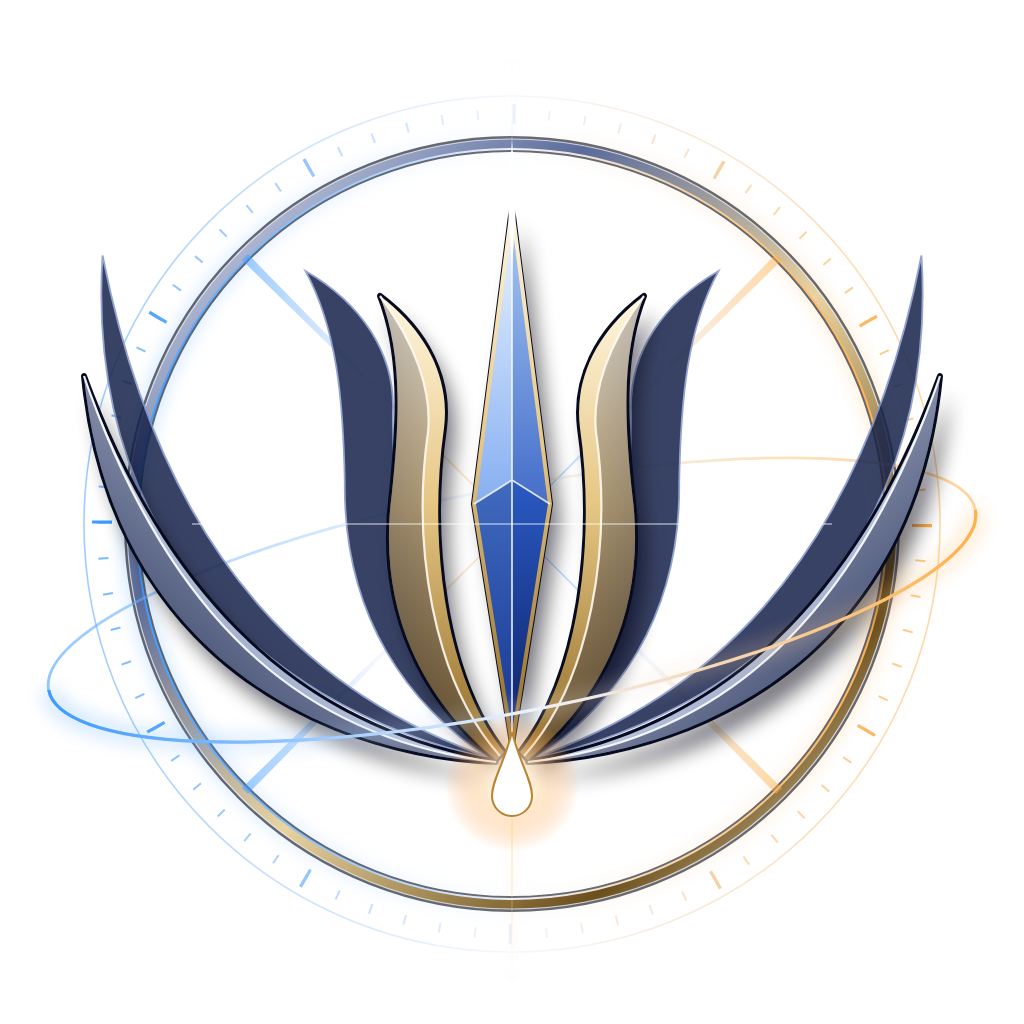
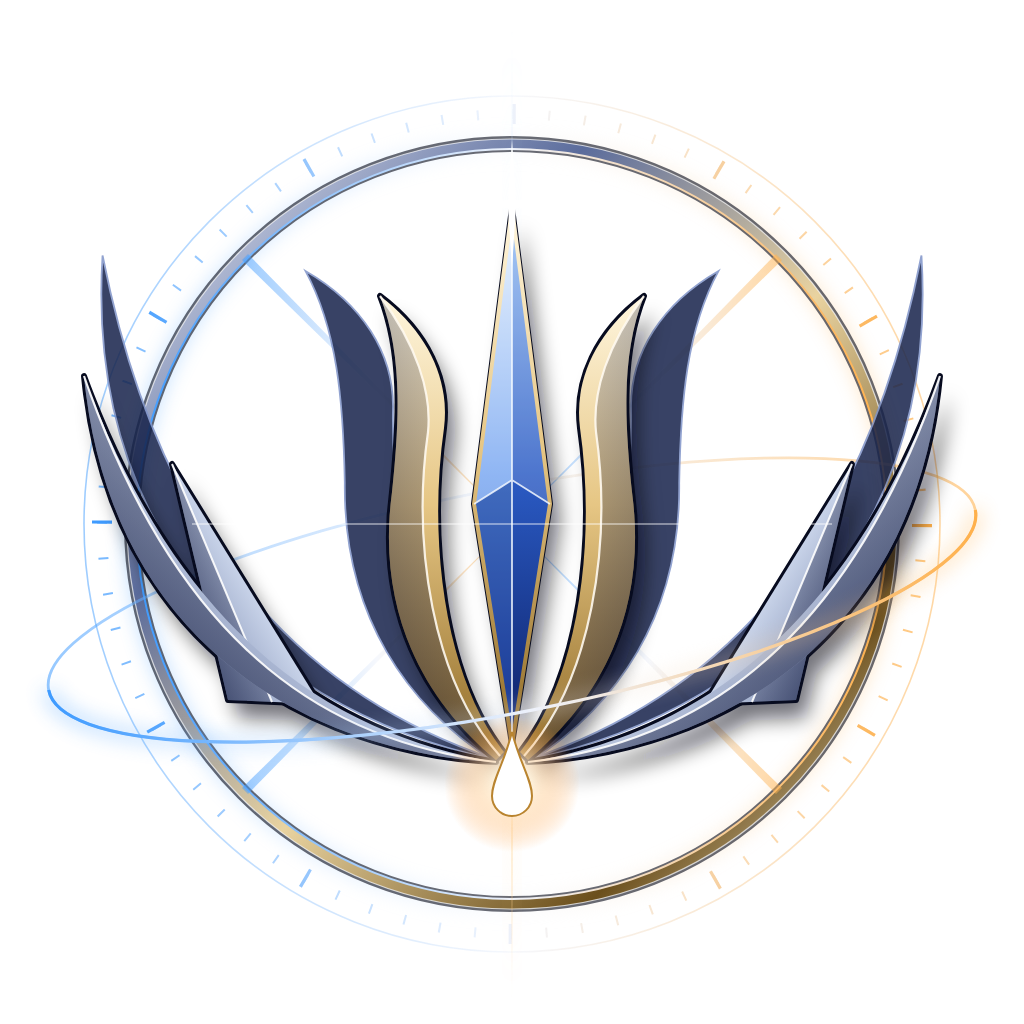
วาดพื้นหลังหน้าเข้าสู่ระบบด้วยโค้ดในแบบเดิม และคืนหนามปีกทรงเดิมให้ตรา
หน้าเข้าสู่ระบบกับหน้าสมัครสมาชิกยังใช้ภาพพื้นหลังที่มีโลโก้รุ่นเก่า พอเข้ามาเจอตราคนละแบบกับในแอป คงทำให้สงสัยว่าใช่เว็บเดียวกันไหม
เจ้าของโปรเจกต์ให้วาดด้วยโค้ดพร้อมตราใหม่ แต่ต้องจัดวางแบบเดิม ไม่อย่างนั้นแบรนด์จะไม่น่าเชื่อถือ
ตอนนี้พื้นหลังสร้างจาก scripts/hero/scene.html: เนบิวลาฟ้าฝั่งซ้าย ส้มทองฝั่งขวา ตราอยู่กลาง ชื่อ KING DIADEM ใต้ตรา
และแสงขอบฟ้ากับวงคลื่นด้านล่าง ตำแหน่งเดียวกับภาพเดิม ดาวสุ่มด้วยเลขตั้งต้นคงที่ สร้างใหม่กี่ครั้งก็ได้ภาพเดิมค่ะ

ตรารุ่นก่อนตัดหนามลูกศรบนปีกออก ทำให้รูปทรงห่างจากโลโก้เดิมของ KING DIADEM
รุ่นนี้ใส่หนามกลับมาในแบบเดียวกับชิ้นอื่น มีสันแบ่งหน้ารับแสงกับหน้าเงา แล้วสร้างไอคอนแอปทุกขนาดใหม่จากตรานี้

หน้าจดหมาย รายงาน ถามตอบ และหน้าออฟไลน์ ใช้โทนกลางเดียวกับหน้าอื่นแล้ว
ส่วนหน้าดูดาวกับหน้าฉุกเฉินตั้งใจไม่แตะ เพราะสีท้องฟ้าต้องไม่เพี้ยน และหน้าฉุกเฉินไม่ควรเสี่ยงค่ะ

Claude-Session: https://claude.ai/code/session_01C6X28FyDiBJ6mM9LUv8PCg

Changed region(s): [[0.6875, 0.4375, 0.8438, 0.7188], [0.1562, 0.4375, 0.3125, 0.7188]]

diff --git a/scripts/hero/scene.html b/scripts/hero/scene.html
@@ -1,0 +1,42 @@
+<!doctype html>
+<!-- ฉากพื้นหลังหน้าเข้าสู่ระบบ — วาดด้วยโค้ดทั้งหมด (ไม่มีภาพจาก AI) จัดวางแบบภาพเดิมของเจ้าของโปรเจกต์:
+     เนบิวลาฟ้าฝั่งซ้าย ส้มทองฝั่งขวา · ตราอยู่กลาง · ชื่อ KING DIADEM ใต้ตรา · แสงขอบฟ้ากับวงคลื่นด้านล่าง
+     ดาวสุ่มด้วยเลขตั้งต้นคงที่ → เรนเดอร์กี่ครั้งก็ได้ภาพเดิม · สร้างไฟล์ด้วย scripts/hero/build.js -->
+<html><head><meta charset="utf-8"><style>
+html,body{margin:0;background:#03040b;overflow:hidden}
+#s{position:relative;width:2560px;height:1440px;overflow:hidden;background:radial-gradient(70% 60% at 50% 42%,#0b1030,#04050f 62%,#020208)}
+.neb{position:absolute;inset:0}
+#crest{position:absolute;left:50%;top:42%;width:1080px;height:1080px;transform:translate(-50%,-50%)}
+#word{position:absolute;left:0;right:0;top:76%;text-align:center;font:500 150px/1 "Cinzel","Noto Serif Thai",Georgia,serif;letter-spacing:.14em;padding-left:.14em;
+  background:linear-gradient(180deg,#fff8e4 8%,#f0cd82 46%,#a8782a 92%);-webkit-background-clip:text;background-clip:text;color:transparent;filter:drop-shadow(0 6px 18px rgba(0,0,0,.8))}
+#word small{font-size:.78em;letter-spacing:.14em}
+#hz{position:absolute;left:0;right:0;bottom:0;height:300px}
+</style></head><body><div id="s">
+<svg class="neb" viewBox="0 0 2560 1440" xmlns="http://www.w3.org/2000/svg">
+  <defs>
+    <filter id="cl" x="-10%" y="-10%" width="120%" height="120%"><feTurbulence type="fractalNoise" baseFrequency=".0042 .007" numOctaves="5" seed="7"/><feColorMatrix values="0 0 0 0 1  0 0 0 0 1  0 0 0 0 1  2.6 0 0 0 -1.05"/><feGaussianBlur stdDeviation="6" result="n"/><feComposite in="SourceGraphic" in2="n" operator="in"/></filter>
+    <radialGradient id="b" cx="20%" cy="38%" r="52%"><stop offset="0" stop-color="#3f78ff" stop-opacity=".95"/><stop offset=".55" stop-color="#2238a8" stop-opacity=".5"/><stop offset="1" stop-color="#101a60" stop-opacity="0"/></radialGradient>
+    <radialGradient id="o" cx="82%" cy="34%" r="50%"><stop offset="0" stop-color="#ffa63c" stop-opacity=".95"/><stop offset=".55" stop-color="#b8521a" stop-opacity=".5"/><stop offset="1" stop-color="#4a1c08" stop-opacity="0"/></radialGradient>
+    <radialGradient id="v" cx="50%" cy="46%" r="70%"><stop offset=".5" stop-color="#000" stop-opacity="0"/><stop offset="1" stop-color="#000" stop-opacity=".78"/></radialGradient>
+    <radialGradient id="hg" cx="50%" cy="100%" r="60%"><stop offset="0" stop-color="#ffe6b8" stop-opacity=".9"/><stop offset=".25" stop-color="#ffb056" stop-opacity=".35"/><stop offset="1" stop-color="#ff9a3a" stop-opacity="0"/></radialGradient>
+  </defs>
+  <rect width="2560" height="1440" fill="url(#b)" filter="url(#cl)"/>
+  <rect width="2560" height="1440" fill="url(#o)" filter="url(#cl)"/>
+  <g id="stars"></g>
+  <rect width="2560" height="1440" fill="url(#v)"/>
+  <rect y="1040" width="2560" height="400" fill="url(#hg)"/>
+  <g fill="none" stroke="#ffd9a0" stroke-opacity=".4" stroke-width="1.6">
+    <ellipse cx="1280" cy="1330" rx="330" ry="26"/><ellipse cx="1280" cy="1330" rx="620" ry="52"/><ellipse cx="1280" cy="1330" rx="980" ry="84" stroke-opacity=".22"/>
+  </g>
+  <path d="M1280 560 L1283 1330 L1277 1330 Z" fill="#fff" opacity=".35"/>
+</svg>
+<img id="crest" src="../../static/brand/crest.svg" alt="">
+<div id="word">K<small>ING</small> D<small>IADEM</small></div>
+<script>
+// ดาว: ตัวสุ่มแบบกำหนดเลขตั้งต้น (mulberry32) — ภาพเดิมทุกครั้งที่เรนเดอร์
+(function(){var a=20261112;function r(){a|=0;a=a+0x6D2B79F5|0;var t=Math.imul(a^a>>>15,1|a);t=t+Math.imul(t^t>>>7,61|t)^t;return((t^t>>>14)>>>0)/4294967296}
+var g=document.getElementById('stars'),h='';for(var i=0;i<1500;i++){var x=r()*2560,y=r()*1300,m=Math.pow(r(),6),s=.5+m*3.2,warm=x>1280;
+h+='<circle cx="'+x.toFixed(1)+'" cy="'+y.toFixed(1)+'" r="'+s.toFixed(2)+'" fill="'+(warm?'#ffe2b8':'#d6e4ff')+'" opacity="'+(.35+r()*.6).toFixed(2)+'"/>';
+if(m>.9)h+='<path d="M'+x+' '+(y-s*7)+' L'+(x+s*.5)+' '+y+' L'+x+' '+(y+s*7)+' L'+(x-s*.5)+' '+y+' Z M'+(x-s*7)+' '+y+' L'+x+' '+(y+s*.5)+' L'+(x+s*7)+' '+y+' L'+x+' '+(y-s*.5)+' Z" fill="#fff" opacity=".8"/>';}
+g.innerHTML=h})();
+</script></div></body></html>

diff --git a/scripts/hero/build.js b/scripts/hero/build.js
@@ -1,0 +1,15 @@
+// สร้าง static/hero.jpg (2560×1440) และ static/hero_m.jpg (1280×720) จาก scripts/hero/scene.html
+// ใช้:  node scripts/hero/build.js   (ต้องมี Playwright + Chromium)
+const { chromium } = require('playwright'); const path = require('path');
+(async () => {
+  const b = await chromium.launch();
+  for (const [file, scale, q] of [['hero.jpg', 1, 82], ['hero_m.jpg', .5, 80]]) {
+    const p = await b.newPage({ viewport: { width: 2560 * scale, height: 1440 * scale }, deviceScaleFactor: 1 });
+    await p.goto('file://' + path.join(__dirname, 'scene.html'));
+    await p.evaluate(s => { document.getElementById('s').style.cssText += ';transform-origin:0 0;transform:scale(' + s + ')'; }, scale);
+    await p.waitForTimeout(1500);
+    await p.screenshot({ path: path.join(__dirname, '..', '..', 'static', file), type: 'jpeg', quality: q });
+    await p.close();
+  }
+  await b.close();
+})();

diff --git a/static/offline.html b/static/offline.html
@@ -23,6 +23,7 @@ a.retry { display: inline-block; text-decoration: none; margin-top: 26px; paddin
 .ax { margin-top: 22px; font: 11px/1.6 ui-monospace, monospace; letter-spacing: .14em; color: rgba(216,184,120,.6); }
   a.tel{color:inherit;font-weight:700;text-decoration:underline;text-underline-offset:3px;padding:2px 2px}
 </style>
+<link rel="stylesheet" href="/static/brand/brand.css">
 </head>
 <body>
 <main>

diff --git a/static/report.html b/static/report.html
@@ -514,6 +514,7 @@ nav::after {
   a.tel{color:inherit;font-weight:700;text-decoration:underline;text-underline-offset:3px}
 </style>
 <link rel="stylesheet" href="/static/cinema.css">
+<link rel="stylesheet" href="/static/brand/brand.css">
 </head>
 <body>
 <canvas id="sky" data-density="3400" aria-hidden="true"></canvas>

diff --git a/static/ask.html b/static/ask.html
@@ -186,6 +186,7 @@ select option{background:#04060f;color:var(--tx-hi);}
 .card:nth-child(3){animation-delay:.14s;}
 </style>
 <link rel="stylesheet" href="/static/cinema.css">
+<link rel="stylesheet" href="/static/brand/brand.css">
 </head>
 <body>
 <canvas id="sky" data-density="3400" aria-hidden="true"></canvas>

diff --git a/static/letter.html b/static/letter.html
@@ -107,6 +107,7 @@ html.js .st.in .ln { opacity: 1; filter: blur(0); transform: none; }
 }
 </style>
 <link rel="stylesheet" href="/static/cinema.css">
+<link rel="stylesheet" href="/static/brand/brand.css">
 </head>
 <body>
 <script>document.documentElement.classList.add('js');</script>

diff --git a/tests/test_brand_css.py b/tests/test_brand_css.py
@@ -3,7 +3,8 @@ from pathlib import Path
 
 ROOT = Path(__file__).resolve().parent.parent
 CSS = (ROOT / "static/brand/brand.css").read_text(encoding="utf-8")
-PAGES = ["guide", "learn", "privacy", "terms", "support", "refund", "architecture", "notfound", "wallet", "register"]
+PAGES = ["guide", "learn", "privacy", "terms", "support", "refund", "architecture", "notfound", "wallet", "register",
+         "letter", "report", "ask", "offline"]   # ไม่รวม sky (ท้องฟ้าจริง สีต้องไม่เพี้ยน) และ safe (หน้าฉุกเฉิน ไม่แตะ)
 
 
 def test_every_secondary_page_loads_the_shared_tone_once():
@@ -17,3 +18,19 @@ def test_shared_tone_is_light_touch():
     assert "pointer-events:none" in CSS                       # แสงบรรยากาศไม่บังการกด
     assert "url(" not in CSS and "animation" not in CSS and "@import" not in CSS
     assert ":where(a:not([class])){color:#ecd6a6" in CSS      # น้ำหนักศูนย์: สีลิงก์ที่หน้านั้นกำหนดเองยังชนะ
+
+
+def test_login_background_is_drawn_by_code_in_the_original_composition():
+    """เจ้าของโปรเจกต์: พื้นหลังหน้าเข้าสู่ระบบวาดด้วยโค้ดพร้อมตราใหม่ แต่ต้องจัดวางแบบเดิม (เนบิวลาฟ้าซ้าย ส้มขวา ตรากลาง ชื่อใต้ตรา)"""
+    scene = (ROOT / "scripts/hero/scene.html").read_text(encoding="utf-8")
+    assert 'src="../../static/brand/crest.svg"' in scene and "mulberry32" in scene and "a=20261112" in scene   # ดาวสุ่มแบบเลขตั้งต้นคงที่
+    assert "http://" not in scene.replace("http://www.w3.org/2000/svg", "") and "https://" not in scene      # ไม่ดึงอะไรจากข้างนอก
+    assert 'id="b" cx="20%"' in scene and 'id="o" cx="82%"' in scene
+    from PIL import Image
+    for f, size in (("hero.jpg", (2560, 1440)), ("hero_m.jpg", (1280, 720))):
+        assert Image.open(ROOT / "static" / f).size == size
+
+
+def test_crest_keeps_the_original_barbed_wings():
+    svg = (ROOT / "static/brand/crest.svg").read_text(encoding="utf-8")
+    assert 'id="barb"' in svg and svg.count('href="#barb"') >= 5

diff --git a/tests/test_crest.py b/tests/test_crest.py
@@ -14,7 +14,7 @@ def test_crest_is_pure_vector_and_safe():
     assert SVG.lstrip().startswith("<svg") and 'viewBox="0 0 512 512"' in SVG
     for bad in ("<script", "<image", "data:", "http://", "https://", "<animate", "onload"):
         assert bad not in SVG.replace('xmlns="http://www.w3.org/2000/svg"', ""), bad
-    assert len(SVG) < 8000                                     # เล็กพอจะโหลดทันทีบนเน็ตมือถือ
+    assert len(SVG) < 10000                                    # เล็กพอจะโหลดทันทีบนเน็ตมือถือ (เพิ่มจาก 8000 เมื่อใส่หนามปีกทรงเดิมกลับมา)
     ids = set(re.findall(r'id="(\w+)"', SVG))
     used = set(re.findall(r"url\(#(\w+)\)", SVG)) | set(re.findall(r'href="#(\w+)"', SVG))
     assert used <= ids, used - ids                              # ไม่มีการอ้างสี/รูปทรงที่ไม่ได้ประกาศ
